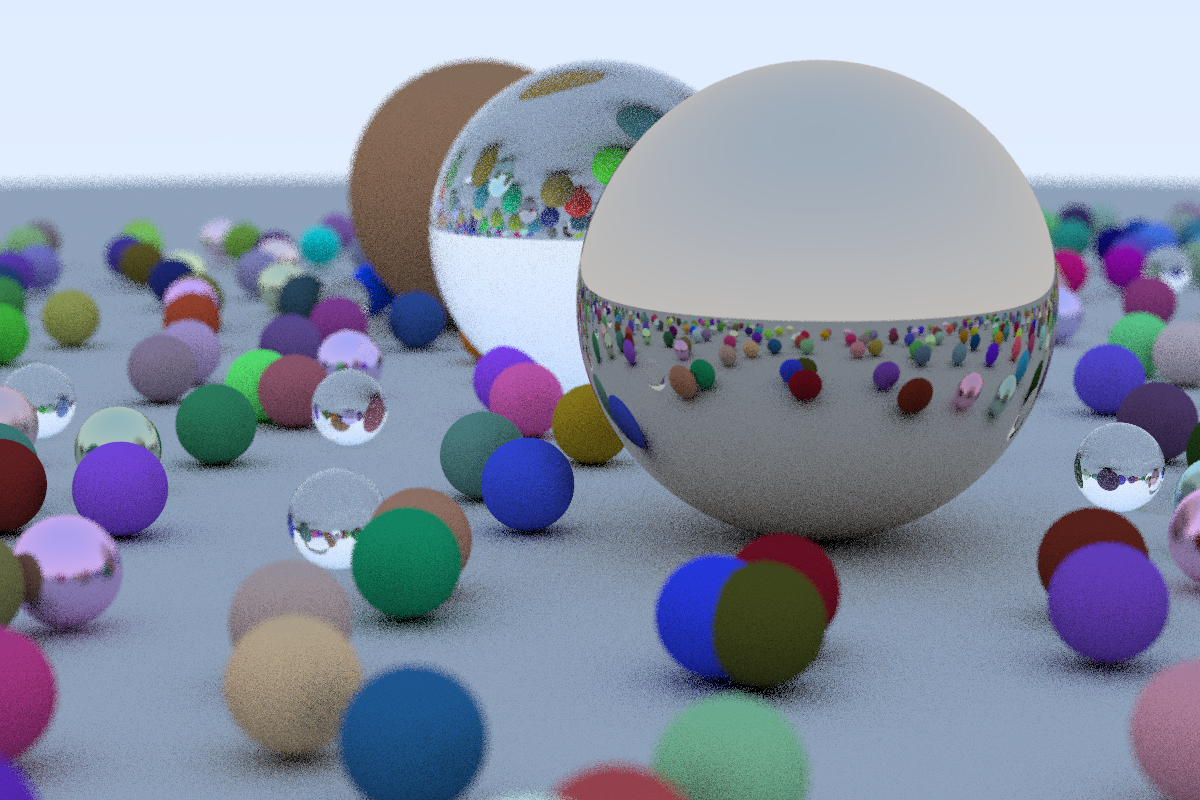
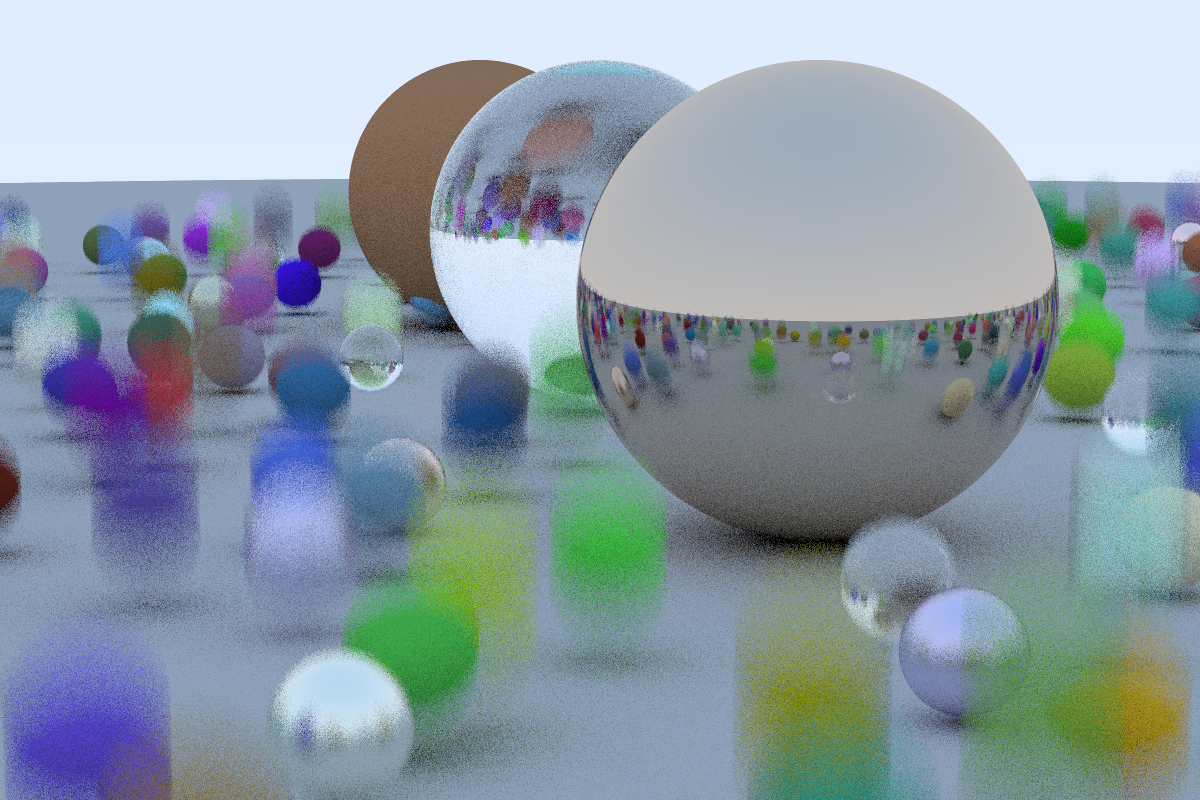
TNW: motion blur

diff --git a/sphere.h b/sphere.h
@@ -6,23 +6,28 @@
 struct Sphere : public Hitable
 {
 	typedef r3::Vec3f V;
-	Sphere( const V& center, const float radius, Material* material ) : c( center ), r( radius ), mat( material ) {}
-
-	bool Hits( const Ray& ray, float t_min, Hit& hit )
+	Sphere( const V& center, const float radius, Material* material, const V& vel = V(), float time0 = 0 )
+		: c0( center ), r( radius ), mat( material ), dcdt( vel ), t0( time0 )
 	{
-		Quadraticf quadr( Dot( ray.dir, ray.dir ), 2 * Dot( ray.dir, ray.o - c ), Dot( ray.o - c, ray.o - c ) - r * r );
+	}
+
+	bool Hits( const Ray& ray, float s_min, Hit& hit )
+	{
+		V c = c0 + dcdt * ( ray.t - t0 );
+		V oc = ray.o - c;
+		Quadraticf quadr( Dot( ray.dir, ray.dir ), 2 * Dot( ray.dir, oc ), Dot( oc, oc ) - r * r );
 		float discr = quadr.Discriminant();
 		if ( discr >= 0 )
 		{
-			float t = quadr.ClosestForwardSolution( discr, t_min );
-			if ( t < t_min )
+			float s = quadr.ClosestForwardSolution( discr, s_min );
+			if ( s < s_min )
 			{
 				return false;
 			}
 			else
 			{
-				hit.t = t;
-				hit.p = ray.At( t );
+				hit.s = s;
+				hit.p = ray.At( s );
 				hit.n = ( hit.p - c ) / r;
 				hit.mat = mat;
 				return true;
@@ -34,7 +39,9 @@ struct Sphere : public Hitable
 		}
 	}
 
-	V c;
+	V c0;
 	float r;
 	const Material* mat;
+	V dcdt;
+	float t0;
 };

diff --git a/rt.cpp b/rt.cpp
@@ -105,18 +105,20 @@ void random_scene( HitableCollection& collection )
 				{ // diffuse
 					hc.push_back( new Sphere(
 						center, 0.2,
-						new Lambertian( Vec3f( dis( gen ) * dis( gen ), dis( gen ) * dis( gen ), dis( gen ) * dis( gen ) ) ) ) );
+						new Lambertian( Vec3f( dis( gen ) * dis( gen ), dis( gen ) * dis( gen ), dis( gen ) * dis( gen ) ) ),
+						Vec3f( 0, 0.5 * dis( gen ), 0 ) ) );
 				}
 				else if ( choose_mat < 0.95 )
 				{ // metal
 					hc.push_back( new Sphere(
 						center, 0.2,
 						new Metal( Vec3f( 0.5 * ( 1 + dis( gen ) ), 0.5 * ( 1 + dis( gen ) ), 0.5 * ( 1 + dis( gen ) ) ),
-								   0.5 * dis( gen ) ) ) );
+								   0.5 * dis( gen ) ),
+						Vec3f( 0, 0.5 * dis( gen ), 0 ) ) );
 				}
 				else
 				{ // glass
-					hc.push_back( new Sphere( center, 0.2, new Dielectric( 1.5 ) ) );
+					hc.push_back( new Sphere( center, 0.2, new Dielectric( 1.5 ), Vec3f( 0, 0.5 * dis( gen ), 0 ) ) );
 				}
 			}
 		}
@@ -147,7 +149,8 @@ int main( int argc, char** argv )
 	Vec3f to( 0, 0, 0 );
 	Vec3f up( 0, 1, 0 );
 	cam.SetPose( from, to, up );
-	cam.SetFocus( 0.1f, 10 );
+	cam.SetFocus( 0.0f, 10 );
+	cam.SetExposure( 0, 1 );
 
 	std::mt19937 gen( 0 );
 	std::uniform_real_distribution<> dis( 0.0, 1.0 );

diff --git a/camera.h b/camera.h
@@ -11,7 +11,7 @@ struct Camera
 	typedef r3::Posef Pose;
 
 	// symmetric fov
-	Camera() : gen( 0 ), dis( -1, 1 )
+	Camera() : gen( 0 ), dis( -1.0, 1.0 ), dis01( 0.0, 1.0 )
 	{
 		SetFov( 60, 1 );
 	}
@@ -34,11 +34,17 @@ struct Camera
 		focal_dist = focal_distance;
 	}
 
+	void SetExposure( float time0, float time1 )
+	{
+		t0 = time0;
+		t1 = time1;
+	}
+
 	Ray GetRay( const V2& uv )
 	{
 		V3 o = PointOnLens();
 		V3 target = V3( r3::Lerp( ll.x, ur.x, uv.x ), r3::Lerp( ll.y, ur.y, uv.y ), -1 ) * focal_dist;
-		return Ray( pose.t + pose.r.Rotate( o ), pose.r.Rotate( target - o ) );
+		return Ray( pose.t + pose.r.Rotate( o ), pose.r.Rotate( target - o ), r3::Lerp( t0, t1, Random0to1() ) );
 	}
 
 	V3 PointOnLens() const
@@ -52,11 +58,19 @@ struct Camera
 		return V3( p.x, p.y, 0 );
 	}
 
+	float Random0to1() const
+	{
+		return dis01( gen );
+	}
+
 	V2 ll;
 	V2 ur;
 	Pose pose;
 	float lens_radius = 0;
 	float focal_dist = 1;
+	float t0 = 0;
+	float t1 = 0;
 	mutable std::mt19937 gen;
 	mutable std::uniform_real_distribution<> dis;
+	mutable std::uniform_real_distribution<> dis01;
 };

diff --git a/hitable.h b/hitable.h
@@ -10,7 +10,7 @@ struct Material;
 struct Hit
 {
 	typedef r3::Vec3f V;
-	float t;
+	float s;
 	V p;
 	V n;
 	const Material* mat;
@@ -18,21 +18,21 @@ struct Hit
 
 struct Hitable
 {
-	virtual bool Hits( const Ray& ray, float t_min, Hit& hit ) = 0;
+	virtual bool Hits( const Ray& ray, float s_min, Hit& hit ) = 0;
 };
 
 struct HitableCollection : public Hitable
 {
 	std::vector<Hitable*> hitables;
 
-	bool Hits( const Ray& ray, float t_min, Hit& hit )
+	bool Hits( const Ray& ray, float s_min, Hit& hit )
 	{
 		bool has_hit = false;
 		Hit closest_hit;
 		for ( auto hitable : hitables )
 		{
 			Hit h;
-			if ( hitable->Hits( ray, t_min, h ) )
+			if ( hitable->Hits( ray, s_min, h ) )
 			{
 				if ( has_hit == false )
 				{
@@ -40,7 +40,7 @@ struct HitableCollection : public Hitable
 					has_hit = true;
 					continue;
 				}
-				if ( h.t < closest_hit.t )
+				if ( h.s < closest_hit.s )
 				{
 					closest_hit = h;
 				}

diff --git a/ray.h b/ray.h
@@ -8,20 +8,16 @@ extern int trace_recursion;
 struct Ray
 {
 	typedef r3::Vec3f V;
-	Ray() {}
-	Ray( const V& origin, const V& direction, float fwd = 0.0f ) : dir( direction.Normalized() ), o( origin + dir * fwd )
-	{
-		if ( trace_recursion > 100 )
-		{
-			printf( "%d ray: o = ( %.2f, %.2f, %.2f ), dir = ( %.2f, %.2f, %.2f )\n", trace_recursion, o.x, o.y, o.z, dir.x,
-					dir.y, dir.z );
-		}
-	}
 
-	V At( float t ) const
+	Ray() : t( 0 ) {}
+
+	Ray( const V& origin, const V& direction, float time = 0 ) : dir( direction.Normalized() ), o( origin ), t( time ) {}
+
+	V At( float s ) const
 	{
-		return o + dir * t;
+		return o + dir * s;
 	}
 	V dir;
 	V o;
+	float t;
 };

diff --git a/dielectric.h b/dielectric.h
@@ -41,11 +41,11 @@ struct Dielectric : public Material
 		V refr;
 		if ( Refract( incident.dir, normal, nr, refr ) && RandomScalar() > Schlick( -incident.dir.Dot( normal ), nr ) )
 		{
-			scattered = Ray( hit.p, refr );
+			scattered = Ray( hit.p, refr, incident.t );
 		}
 		else
 		{
-			scattered = Ray( hit.p, Reflect( incident.dir, normal ) );
+			scattered = Ray( hit.p, Reflect( incident.dir, normal ), incident.t );
 		}
 		attenuation = V( 1, 1, 1 );
 		return true;

diff --git a/metal.h b/metal.h
@@ -17,7 +17,7 @@ struct Metal : public Material
 	bool Scatter( const Ray& incident, const Hit& hit, V& attenuation, Ray& scattered ) const
 	{
 		V refl = Reflect( incident.dir, hit.n ) + rpius.GetPoint() * fuzz;
-		scattered = Ray( hit.p, refl );
+		scattered = Ray( hit.p, refl, incident.t );
 		attenuation = albedo;
 		return true;
 	}

diff --git a/lambertian.h b/lambertian.h
@@ -11,7 +11,7 @@ struct Lambertian : public Material
 
 	bool Scatter( const Ray& incident, const Hit& hit, V& attenuation, Ray& scattered ) const
 	{
-		scattered = Ray( hit.p, hit.n + rpius.GetPoint() );
+		scattered = Ray( hit.p, hit.n + rpius.GetPoint(), incident.t );
 		attenuation = albedo;
 		return true;
 	}
